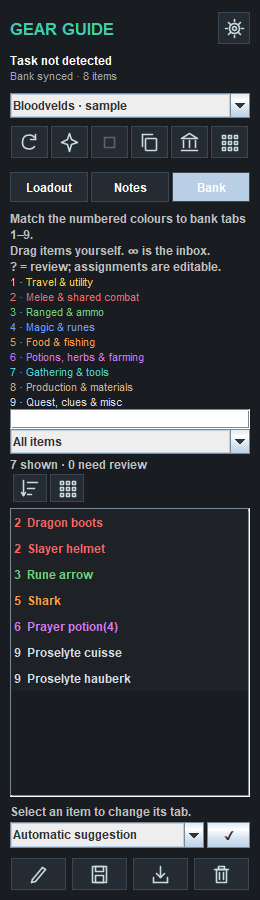
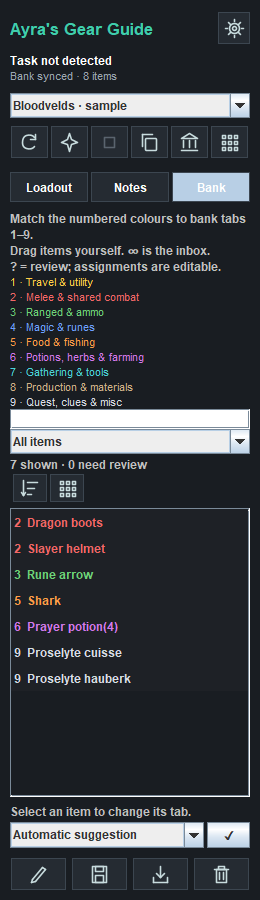
Rename plugin to Ayra's Gear Guide

Changed region(s): [[0.2462, 0.0, 0.5846, 0.0622], [0.0308, 0.0, 0.2154, 0.0622]]

diff --git a/src/main/java/com/gearguide/GuidePanel.java b/src/main/java/com/gearguide/GuidePanel.java
@@ -132,7 +132,7 @@ public final class GuidePanel extends PluginPanel {
         JPanel header = column();
         JPanel titleRow = new JPanel(new BorderLayout());
         titleRow.setOpaque(false);
-        JLabel title = new JLabel("GEAR GUIDE");
+        JLabel title = new JLabel("Ayra's Gear Guide");
         title.setForeground(GREEN);
         title.setFont(new Font("SansSerif", Font.BOLD, 17));
         titleRow.add(title, BorderLayout.CENTER);
@@ -303,7 +303,7 @@ public final class GuidePanel extends PluginPanel {
         if (JOptionPane.showConfirmDialog(
                         this,
                         form,
-                        "Gear Guide settings",
+                        "Ayra's Gear Guide settings",
                         JOptionPane.OK_CANCEL_OPTION,
                         JOptionPane.PLAIN_MESSAGE)
                 == JOptionPane.OK_OPTION) {
@@ -321,7 +321,7 @@ public final class GuidePanel extends PluginPanel {
             return;
         }
         String request =
-                "Use Gear Guide's /v1/task hook. Select my existing "
+                "Use the /v1/task hook in Ayra's Gear Guide. Select my existing "
                         + taskStyle.getSelectedItem()
                         + " build for "
                         + snapshot.task.name
@@ -519,8 +519,8 @@ public final class GuidePanel extends PluginPanel {
                 content.add(
                         text(
                                 "Extra bank supplies.\n"
-                                    + "Fill pouch / charge items manually.\n"
-                                    + "Pouch contents are not checked.",
+                                        + "Fill pouch / charge items manually.\n"
+                                        + "Pouch contents are not checked.",
                                 MUTED));
                 JPanel runes = new JPanel(new GridLayout(0, 4, 4, 4));
                 runes.setOpaque(false);
@@ -675,6 +675,7 @@ public final class GuidePanel extends PluginPanel {
     }
 
     public void error(String message) {
-        JOptionPane.showMessageDialog(this, message, "Gear Guide", JOptionPane.ERROR_MESSAGE);
+        JOptionPane.showMessageDialog(
+                this, message, "Ayra's Gear Guide", JOptionPane.ERROR_MESSAGE);
     }
 }

diff --git a/src/main/java/com/gearguide/GearGuideConfig.java b/src/main/java/com/gearguide/GearGuideConfig.java
@@ -9,7 +9,7 @@ public interface GearGuideConfig extends Config {
             name = "Local assistant connection",
             description =
                     "Allow local tools to read your bank and save setups. Off by default. Restart"
-                            + " Gear Guide after changing.",
+                            + " Ayra's Gear Guide after changing.",
             position = 0)
     default boolean assistantConnection() {
         return false;
@@ -29,8 +29,8 @@ public interface GearGuideConfig extends Config {
             keyName = "port",
             name = "Local API port",
             description =
-                    "Used only when the local assistant connection is enabled. Restart Gear Guide"
-                            + " after changing. Binds only to 127.0.0.1.",
+                    "Used only when the local assistant connection is enabled. Restart Ayra's Gear"
+                        + " Guide after changing. Binds only to 127.0.0.1.",
             position = 2)
     @Range(min = 1024, max = 65535)
     default int port() {

diff --git a/src/main/java/com/gearguide/GearGuidePlugin.java b/src/main/java/com/gearguide/GearGuidePlugin.java
@@ -33,7 +33,7 @@ import javax.inject.Inject;
 import javax.swing.*;
 
 @PluginDescriptor(
-        name = "Gear Guide",
+        name = "Ayra's Gear Guide",
         description = "Save gear setups and organize your bank, with optional AI assistance",
         tags = {"bank", "gear", "inventory", "setup"})
 @PluginDependency(BankTagsPlugin.class)
@@ -312,7 +312,7 @@ public class GearGuidePlugin extends Plugin {
 
         navigation =
                 NavigationButton.builder()
-                        .tooltip("Gear Guide")
+                        .tooltip("Ayra's Gear Guide")
                         .icon(icon)
                         .priority(6)
                         .panel(panel)

diff --git a/README.md b/README.md
@@ -1,4 +1,4 @@
-# Gear Guide
+# Ayra's Gear Guide
 
 Gear setups and bank organization for RuneLite, with optional AI assistance.
 
@@ -20,7 +20,7 @@ There is no pathfinding, travel overlay, automatic movement, automatic withdrawa
 
 ## Basic use
 
-Enable **Gear Guide** and its built-in **Bank Tags** dependency. Log in and open your bank. Open potion storage once per login if you use stored potions.
+Enable **Ayra's Gear Guide** and its built-in **Bank Tags** dependency. Log in and open your bank. Open potion storage once per login if you use stored potions.
 
 Use the save icon to capture your current equipment and inventory. Review the name, combat style, target, items and notes, then save. The pencil edits an existing setup. **Loadout**, **Notes**, and **Bank** are always visible navigation buttons; changing pages preserves the controls on each page.
 
@@ -63,7 +63,7 @@ gradlew.bat test jar
 gradlew.bat run
 ```
 
-The default development dependency is RuneLite `latest.release`. Reproducible validation for this release used RuneLite **1.13.3**, selected with `-PruneLiteVersion=1.13.3`. The normal plugin artifact contains only Gear Guide; `shadowJar` and the Windows launch scripts are optional development conveniences that bundle a client for local testing. They are not the Plugin Hub submission format.
+The default development dependency is RuneLite `latest.release`. Reproducible validation for this release used RuneLite **1.13.3**, selected with `-PruneLiteVersion=1.13.3`. The normal plugin artifact contains only Ayra's Gear Guide; `shadowJar` and the Windows launch scripts are optional development conveniences that bundle a client for local testing. They are not the Plugin Hub submission format.
 
 ```text
 gradlew.bat -PruneLiteVersion=1.13.3 test jar shadowJar preview

diff --git a/CHANGELOG.md b/CHANGELOG.md
@@ -2,6 +2,8 @@
 
 ## 0.10.1
 
+- Renamed the plugin to Ayra's Gear Guide.
+
 - Added editable rune supplies to saved loadouts, with required quantities and shortage checks in the sidebar.
 - The loadout bank view now includes rune supplies in separate rows below equipment and inventory.
 - Added optional `runes` metadata for the local API and AI-generated builds. Older setups remain compatible. Pouch filling and item charging remain manual.

diff --git a/docs/LOCAL_API.md b/docs/LOCAL_API.md
@@ -1,6 +1,6 @@
 # Local assistant API
 
-Enable the local assistant connection in Gear Guide settings, restart, log in and open the bank. Open potion storage once per login.
+Enable the local assistant connection in Ayra's Gear Guide settings, restart, log in and open the bank. Open potion storage once per login.
 
 Run the included helper from this project directory:
 
